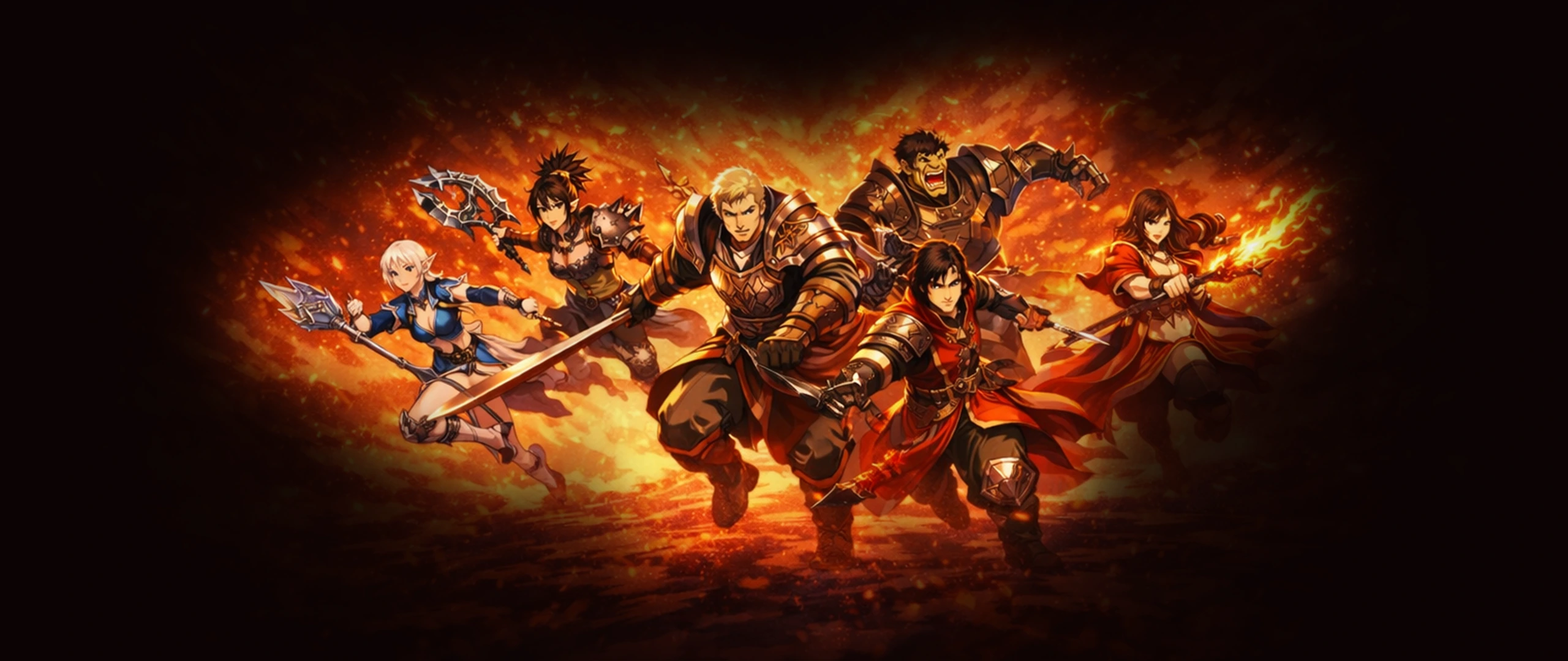
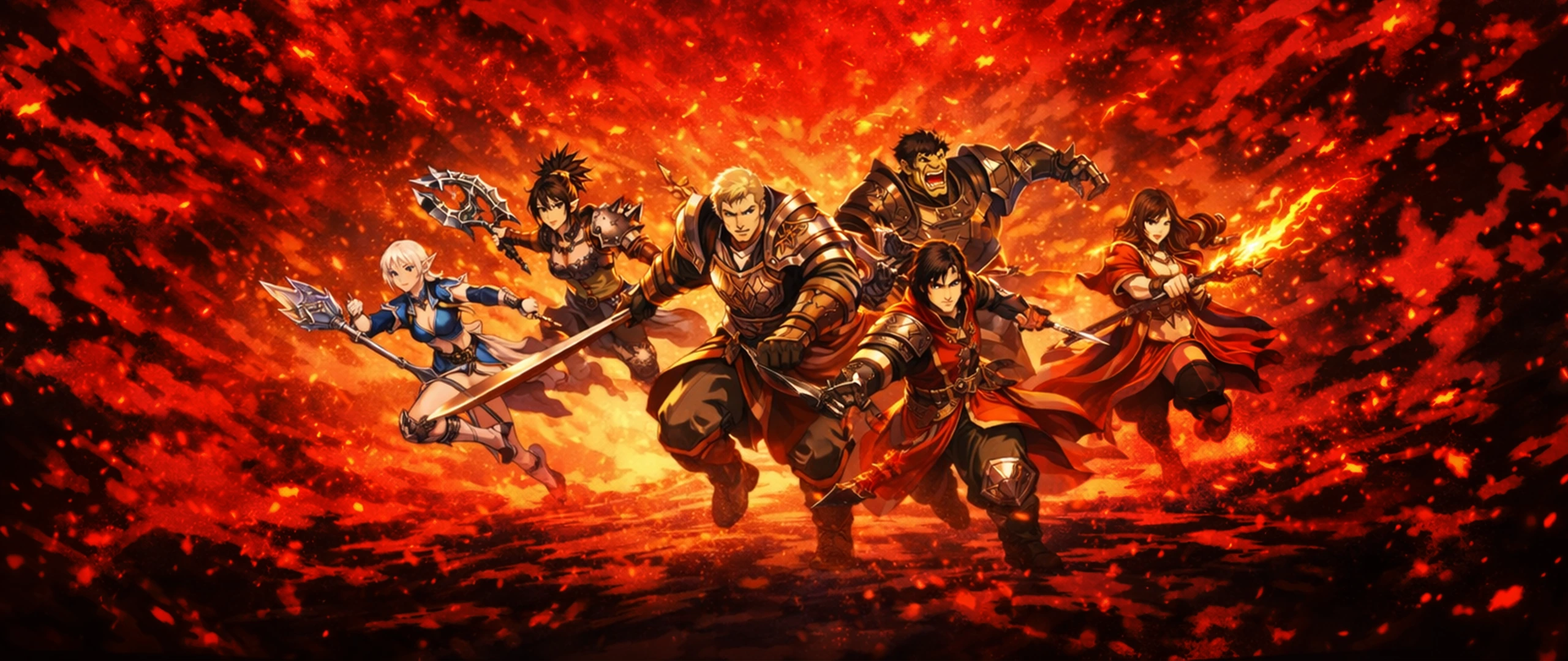
feat: add server info section and update UI styles
- Add new informational section with server details (rates, VIP, accessories, buffs, enchant)
- Replace banner background image and update existing image assets
- Update button styles and colors to use orange/black theme
- Change countdown timer backgrounds to dark brown (#250906)
- Update gradient colors from white to orange in header
- Add "DOWNLOAD NOW" button linking to Discord
- Remove unused PNG banner file

diff --git a/app/app.vue b/app/app.vue
@@ -39,14 +39,14 @@
         </ul>
       </div> -->
       <div class="navbar-end">
-        <NuxtLink to="https://app.l2detona.com/register" :external="true" class="btn btn-primary">Register/Login</NuxtLink>
+        <NuxtLink to="https://app.l2detona.com/register" :external="true" class="btn btn-warning font-extrabold rounded-full">CRIAR CONTA</NuxtLink>
       </div>
     </div>
   </nav>
-  <section class="flex flex-col items-center h-screen bg-[url('/e509f273-819a-4520-9662-9525abcbe1b1.webp')] bg-cover bg-bottom">
+  <section class="flex flex-col items-center min-h-screen bg-[url('/e509f273-819a-4520-9662-9525abcbe1b1.webp')] bg-cover bg-bottom">
     <div class="flex flex-col items-center gap-0 w-full max-w-4xl mt-auto">
       <div
-        class="flex items-center justify-center w-full h-24 mb-4 bg-[linear-gradient(to_right,transparent_0%,white_35%,white_65%,transparent_100%)] text-base-100 gap-8">
+        class="flex items-center justify-center w-full h-24 mb-4 bg-[linear-gradient(to_right,transparent_0%,orange_35%,orange_65%,transparent_100%)] text-[#250906] gap-8">
         <div class="flex-1 flex flex-col text-right">
           <span class="text-2xl leading-7">CUSTOM PVP SERVER</span>
           <span class="font-extrabold text-4xl leading-6">INTERLUDE</span>
@@ -62,28 +62,28 @@
         </span>
       </div>
       <div class="grid auto-cols-max grid-flow-col gap-5 text-center mb-8 min-2xl:mb-32">
-        <div class="flex flex-col bg-black/75 rounded-2xl justify-center items-center aspect-square p-4">
+        <div class="flex flex-col bg-[#250906] rounded-2xl justify-center items-center aspect-square p-4">
           <span class="countdown font-mono text-5xl">
             <span :style="`--value:${days}; --digits: 2;`">{{ pad2(days) }}</span>
           </span>
           Dias
         </div>
 
-        <div class="flex flex-col bg-black/75 rounded-2xl justify-center items-center aspect-square p-4">
+        <div class="flex flex-col bg-[#250906] rounded-2xl justify-center items-center aspect-square p-4">
           <span class="countdown font-mono text-5xl">
             <span :style="`--value:${hours}; --digits: 2;`">{{ pad2(hours) }}</span>
           </span>
           Horas
         </div>
 
-        <div class="flex flex-col bg-black/75 rounded-2xl justify-center items-center aspect-square p-4">
+        <div class="flex flex-col bg-[#250906] rounded-2xl justify-center items-center aspect-square p-4">
           <span class="countdown font-mono text-5xl">
             <span :style="`--value:${minutes}; --digits: 2;`">{{ pad2(minutes) }}</span>
           </span>
           Min
         </div>
 
-        <div class="flex flex-col bg-black/75 rounded-2xl justify-center items-center aspect-square p-4">
+        <div class="flex flex-col bg-[#250906] rounded-2xl justify-center items-center aspect-square p-4">
           <span class="countdown font-mono text-5xl">
             <span :style="`--value:${seconds}; --digits: 2;`">{{ pad2(seconds) }}</span>
           </span>
@@ -91,6 +91,73 @@
         </div>
       </div>
     </div>
+  </section>
+  <section class="flex flex-col items-center min-h-screen bg-[url('/9ddbbce1-86c0-41ab-8ac6-dea76f6bbf28.webp')] bg-cover bg-top p-32">
+        <div class="flex items-center justify-center w-full max-w-[80%] py-3 mb-4 bg-[linear-gradient(to_right,transparent_0%,orange_35%,orange_65%,transparent_100%)] text-[#250906]">
+          <h1 class="text-5xl font-extrabold">
+            INFORMATIONS
+          </h1>
+        </div>
+        <p class="text-center text-lg max-w-2/3 mb-8">
+          Basic information about the server.<br>Other informations can be found in the server's <NuxtLink to="https://discord.gg/eUth6mTQzR" class="link link-accent font-bold" external target="_blank">Discord.</NuxtLink>
+        </p>
+
+        <div
+          class="flex items-center justify-center w-full py-2 mb-1 max-w-[70%] bg-[linear-gradient(to_right,transparent_0%,#250906_35%,#250906_65%,transparent_100%)] text-base-content gap-4">
+          <div class="flex-1 flex flex-col text-right">
+            <span class="text-2xl">500X</span>
+          </div>
+          <div class="flex-1 text-3xl font-bold text-primary">
+            RATES
+          </div>
+        </div>
+
+        <div
+          class="flex items-center justify-center w-full py-2 mb-1 max-w-[70%] bg-[linear-gradient(to_right,transparent_0%,#250906_35%,#250906_65%,transparent_100%)] text-base-content gap-4">
+          <div class="flex-1 flex flex-col text-right">
+            <span class="text-2xl">2x all rates</span>
+          </div>
+          <div class="flex-1 text-3xl font-bold text-primary">
+            VIP
+          </div>
+        </div>
+
+        <div
+          class="flex items-center justify-center w-full py-2 mb-1 max-w-[70%] bg-[linear-gradient(to_right,transparent_0%,#250906_35%,#250906_65%,transparent_100%)] text-base-content gap-4">
+          <div class="flex-1 flex flex-col text-right">
+            <span class="text-2xl">+400 P.DEF/M.DEF</span>
+          </div>
+          <div class="flex-1 text-3xl font-bold text-primary">
+            ACCESSORY
+          </div>
+        </div>
+
+        <div
+          class="flex items-center justify-center w-full py-2 mb-1 max-w-[70%] bg-[linear-gradient(to_right,transparent_0%,#250906_35%,#250906_65%,transparent_100%)] text-base-content gap-4">
+          <div class="flex-1 flex flex-col text-right">
+            <span class="text-2xl">52+4 Slots Schema Npc</span>
+          </div>
+          <div class="flex-1 text-3xl font-bold text-primary">
+            BUFFS
+          </div>
+        </div>
+
+        <div
+          class="flex items-center justify-center w-full py-2 mb-16 max-w-[70%] bg-[linear-gradient(to_right,transparent_0%,#250906_35%,#250906_65%,transparent_100%)] text-base-content gap-4">
+          <div class="flex-1 flex flex-col text-right">
+            <span class="text-2xl">Safe +12 Max +25</span>
+          </div>
+          <div class="flex-1 text-3xl font-bold text-primary">
+            ENCHANT
+          </div>
+        </div>
+
+        <NuxtLink to="https://discord.gg/eUth6mTQzR" target="_blank">
+          <button class="btn btn-warning btn-xl gap-4 border-none text-[#250906] font-extrabold rounded-full">
+            DOWNLOAD NOW
+          </button>
+        </NuxtLink>
+
   </section>
   <dialog id="open_beta_detona" class="modal" open>
     <div class="modal-box bg-[url(/DIVUL_OBT.png)] bg-cover aspect-[1080/1350] max-md:p-8 p-16 flex justify-center items-end">
